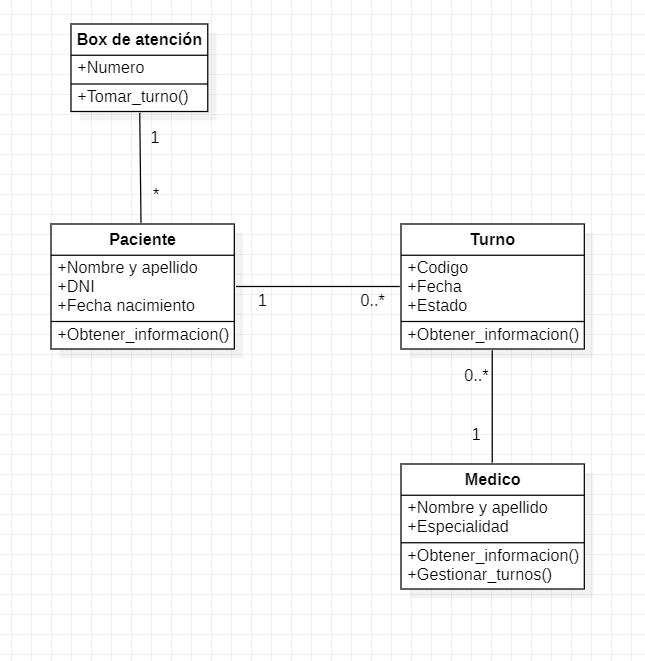
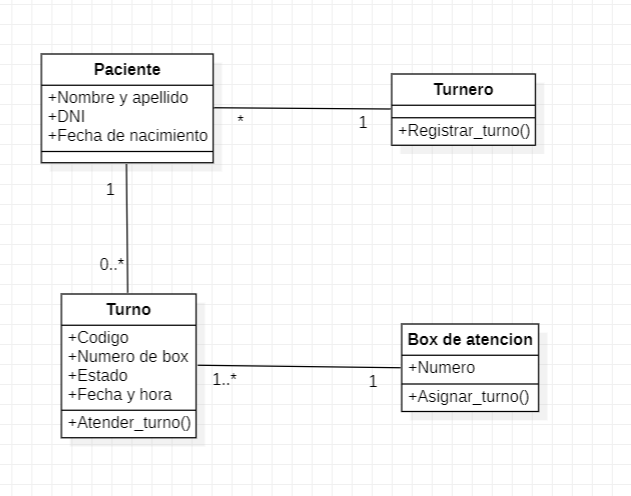
Agregando diagrama de colaboracion al tunero

Changed region(s): [[0.0602, 0.0302, 0.9334, 0.9073]]

diff --git a/TP2 TURNERO/Readme.md b/TP2 TURNERO/Readme.md
@@ -20,7 +20,7 @@
 <h3>USUARIO</h3>
 1 -> EL paciente accede a la UI dispuesta en una tablet para tomar un turno (consulta con el box) o para visualizar los turnos a su nombre
 <br>
-2 -> El sistema emite un ticket al paciente con el codigo de turno y el nro de box
+2 -> Si el paciente decide registrar un turno el sistema emite un ticket al paciente con el codigo de turno y el nro de box para que en el mismo le tomen los datos
 <br>
 3 -> El sistema muestra en una UI visible los turnos, mostrando: numero de box, codigo de turno y apellido del paciente
 <br>

diff --git a/README.md b/README.md
@@ -1,3 +1,2 @@
 # Diseño de sistemas
-AAA
 
